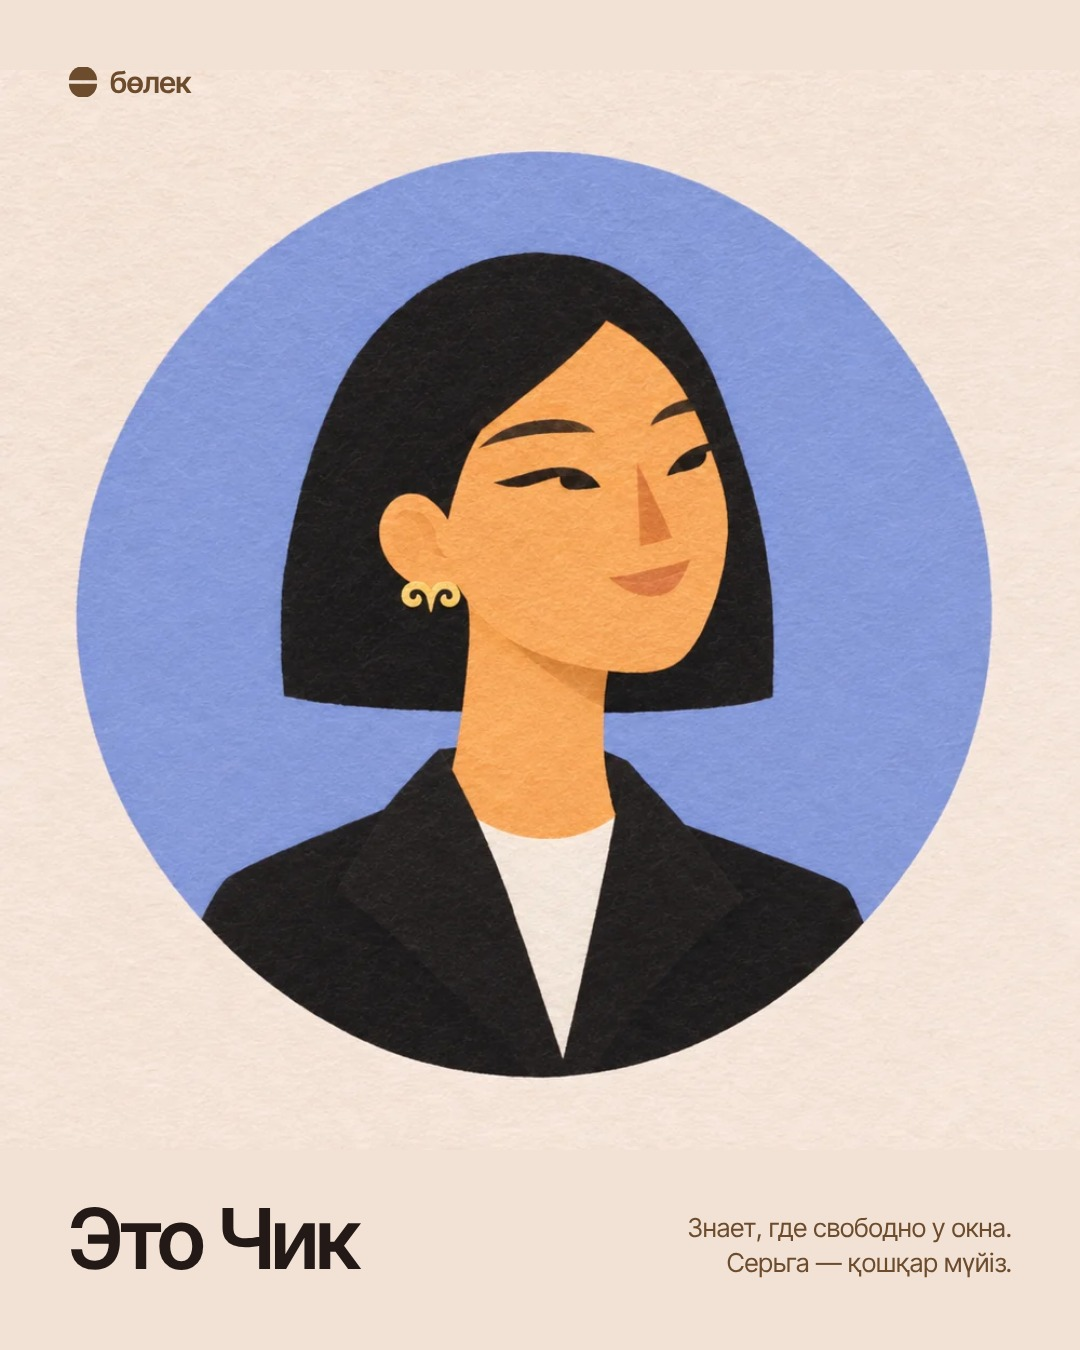
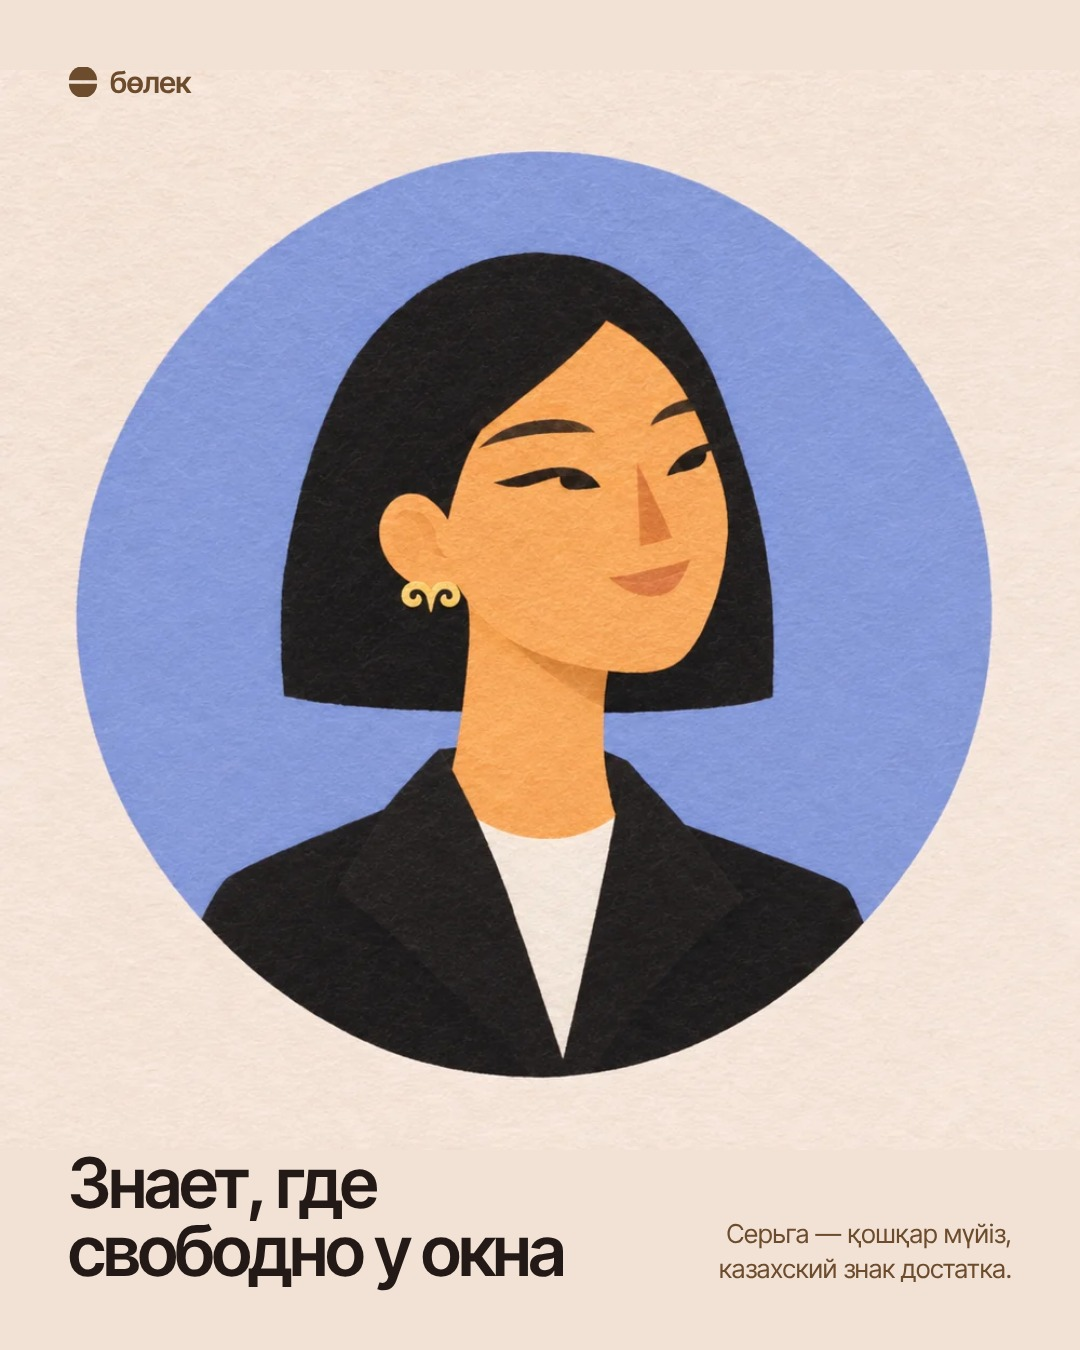
The heroine has no name
Owner: «нельзя называть её Чик, в целом лучше не давать ей имя». The name
leaves the cover's alt text (ru/kk; the stale glass of water there becomes
the berry cocktail without alcohol) and the Instagram kit: post 9 is now
«Знает, где свободно у окна», captions and the guide have no name, the spare
avatar is avatar-portrait.webp.

Claude-Session: https://claude.ai/code/session_01EJf3uqQLuw4uPzgNxK6NH7

Changed region(s): [[0.0611, 0.84, 0.5194, 0.9644], [0.6417, 0.9022, 0.9472, 0.9644]]

diff --git a/src/lib/i18n/kk.ts b/src/lib/i18n/kk.ts
@@ -66,7 +66,7 @@ const kk: Dict = {
     mapCountryCredit: "Ел шекарасы: geoBoundaries, CC BY 4.0",
     nearestTitle: "Ең жақын бос уақыт",
     placesTitle: "Орындар",
-    coverAlt: "Коллаж: күн батардағы Алматы үстіндегі нақты терраса, Көктөбе мен қызғылт таулар, ал үстел басында қағаздан қиылған үш құрбы; ортасында лимонды су ұстаған Чик",
+    coverAlt: "Коллаж: күн батардағы Алматы үстіндегі нақты терраса, Көктөбе мен қызғылт таулар, ал үстел басында қағаздан қиылған үш құрбы; ортасында алтын қошқар мүйіз сырғасы бар қыз, қолында алкогольсіз жидек коктейлі",
     heroCta: "Уақыт таңдау",
     perksTitle: "Қонақтарға бонустар",
     perksLead: "Орындардың Бөлек қонақтарына сыйы.",

diff --git a/src/lib/i18n/ru.ts b/src/lib/i18n/ru.ts
@@ -66,7 +66,7 @@ const ru = {
     mapCountryCredit: "Границы страны: geoBoundaries, CC BY 4.0",
     nearestTitle: "Ближайшее свободное время",
     placesTitle: "Места",
-    coverAlt: "Коллаж: настоящая терраса над Алматы на закате, Кок-Тобе и розовые горы, а за столиком три подруги, вырезанные из бумаги; в центре Чик со стаканом воды с лимоном",
+    coverAlt: "Коллаж: настоящая терраса над Алматы на закате, Кок-Тобе и розовые горы, а за столиком три подруги, вырезанные из бумаги; в центре девушка с золотой серьгой қошқар мүйіз и ягодным коктейлем без алкоголя",
     heroCta: "Выбрать время",
     perksTitle: "Бонусы гостям",
     perksLead: "Что места дарят гостям Бөлек.",

diff --git a/docs/INSTAGRAM.md b/docs/INSTAGRAM.md
@@ -25,7 +25,7 @@
 | Имя (по нему ищут) | `Бөлек · места Алматы` |
 | Тип | Профессиональный аккаунт → «Бизнес»: будут кнопки «Написать», «Эл. адрес» и статистика |
 | Категория | Ближайшая из списка Instagram: «Сайт», «Приложение» или «Местный путеводитель» |
-| Аватар | `avatar-logo.jpg` — знак ө на тёмном, читается и в маленьком кружке. Запасной — `avatar-chick.webp` (Чик) |
+| Аватар | `avatar-logo.jpg` — знак ө на тёмном, читается и в маленьком кружке. Запасной — `avatar-portrait.webp` (портрет героини) |
 | Контакты | Рабочая почта, по желанию — телефон. Личную почту и личный номер не ставить |
 
 **Описание профиля, русский (до 150 знаков):**
@@ -57,7 +57,7 @@
 
 Файлы `post-1.jpg` … `post-9.jpg`, 1080 × 1350. Выкладывать по порядку
 номеров: последний встаёт в сетке первым. Поэтому в верхнем ряду окажутся:
-- Чик;
+- портрет героини;
 - «Томаты подорожали — шакшука тоже»;
 - «Гостей приводят люди».
 
@@ -78,7 +78,7 @@
 | 6 | Вопрос крупно на собственном красном картины | красный |
 | 7 | Только слова и две цифры: «10 секунд», «0 ₸» | крем |
 | 8 | Экран бэк-офиса в телефоне: шакшука +42 ₸ | бордо |
-| 9 | Портрет Чик, имя маленьким | бумага портрета |
+| 9 | Портрет героини, подпись мелко | бумага портрета |
 
 **Ролик для Reels** — `reel-1.mp4`, 9 секунд, 1080 × 1920: медленный
 наезд на обложку, на первой секунде появляется «Куда пойти в Алматы».
@@ -179,14 +179,13 @@
 > дайын, тағамдардың өзіндік құны соңғы бағалармен есептеледі. Пилотта —
 > тегін.
 
-**9. Это Чик** (`post-9.jpg`)
+**9. Знает, где свободно у окна** (`post-9.jpg`)
 
-> Знакомьтесь: Чик. Она знает, где в Алматы свободно у окна, и советует
-> места друзьям. Серьга — қошқар мүйіз, бараний рог: казахский знак
-> достатка.
+> Она знает, где в Алматы свободно у окна, и советует места друзьям.
+> Серьга — қошқар мүйіз, бараний рог: казахский знак достатка.
 >
-> Танысыңыз: Чик. Ол Алматыда терезе жанында қай жер бос екенін біледі
-> және достарына орын ұсынады. Сырғасы — қошқар мүйіз, молшылықтың белгісі.
+> Ол Алматыда терезе жанында қай жер бос екенін біледі және достарына орын
+> ұсынады. Сырғасы — қошқар мүйіз, молшылықтың белгісі.
 
 ## 3. «Актуальное»
 
@@ -227,12 +226,14 @@
 - **Реклама.** Пост или сторис о конкретном заведении-партнёре — это
   реклама: пометка «Жарнама / Реклама» с первого кадра. Посты 1–9 говорят о
   самом Бөлек и пометки не требуют.
-- **Алкоголь.** Его нет ни в кадре, ни в тексте. Коктейль у Чик на обложке
+- **Алкоголь.** Его нет ни в кадре, ни в тексте. Коктейль у героини на обложке
   безалкогольный.
 - **Демо-места** (Nomad Bar, Sora Bistro, Lotus Spa и другие) — выдуманные.
   Как настоящие их в Instagram не показывать. Демо на встрече — только с
   объяснением, что это пример.
 - **Цены после пилота** не называть.
+- **Имени у героини нет.** Ни в постах, ни в подписях, ни в ответах на
+  комментарии: просто «она» или «девушка с серьгой».
 
 ## 6. Когда аккаунт появится
 

diff --git a/NEXT_CHAT.md b/NEXT_CHAT.md
@@ -63,6 +63,9 @@ React 19, Tailwind 4 (токены в `src/app/tokens.css`), postgres.js по
 | `/admin/*` | дашборд, заявки, участницы, заведения, ссылки, CSV |
 
 ## 5. Что сделано
+- 20 ноября: **у героини нет имени** (владелец: «нельзя называть её Чик»).
+  Убрано из alt обложки на сайте и из Instagram (пост 9, подписи). «Чик» и
+  `chick-*` — только рабочая метка в файлах и старых разделах журнала.
 - 20 ноября: набор для Instagram Бөлек — `docs/INSTAGRAM.md` (ник, описание
   на двух языках, подписи к 9 постам, план прогрева и правила писем) и
   `design/instagram/` (аватар, 9 постов, «Актуальное», превью сетки). Аккаунт
